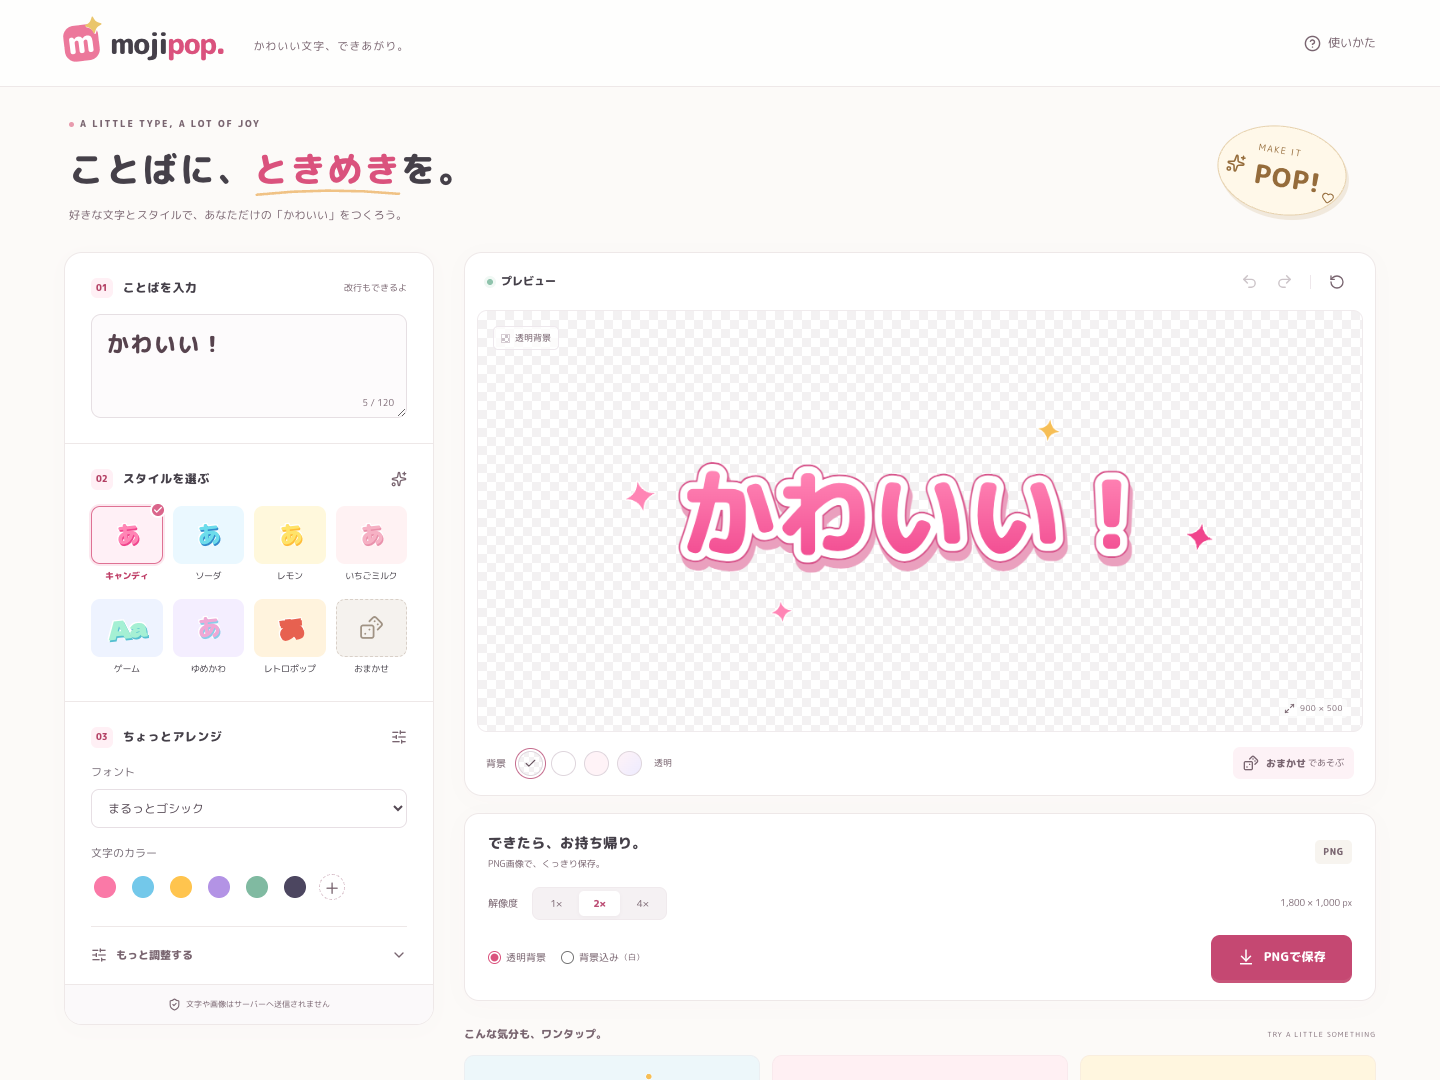
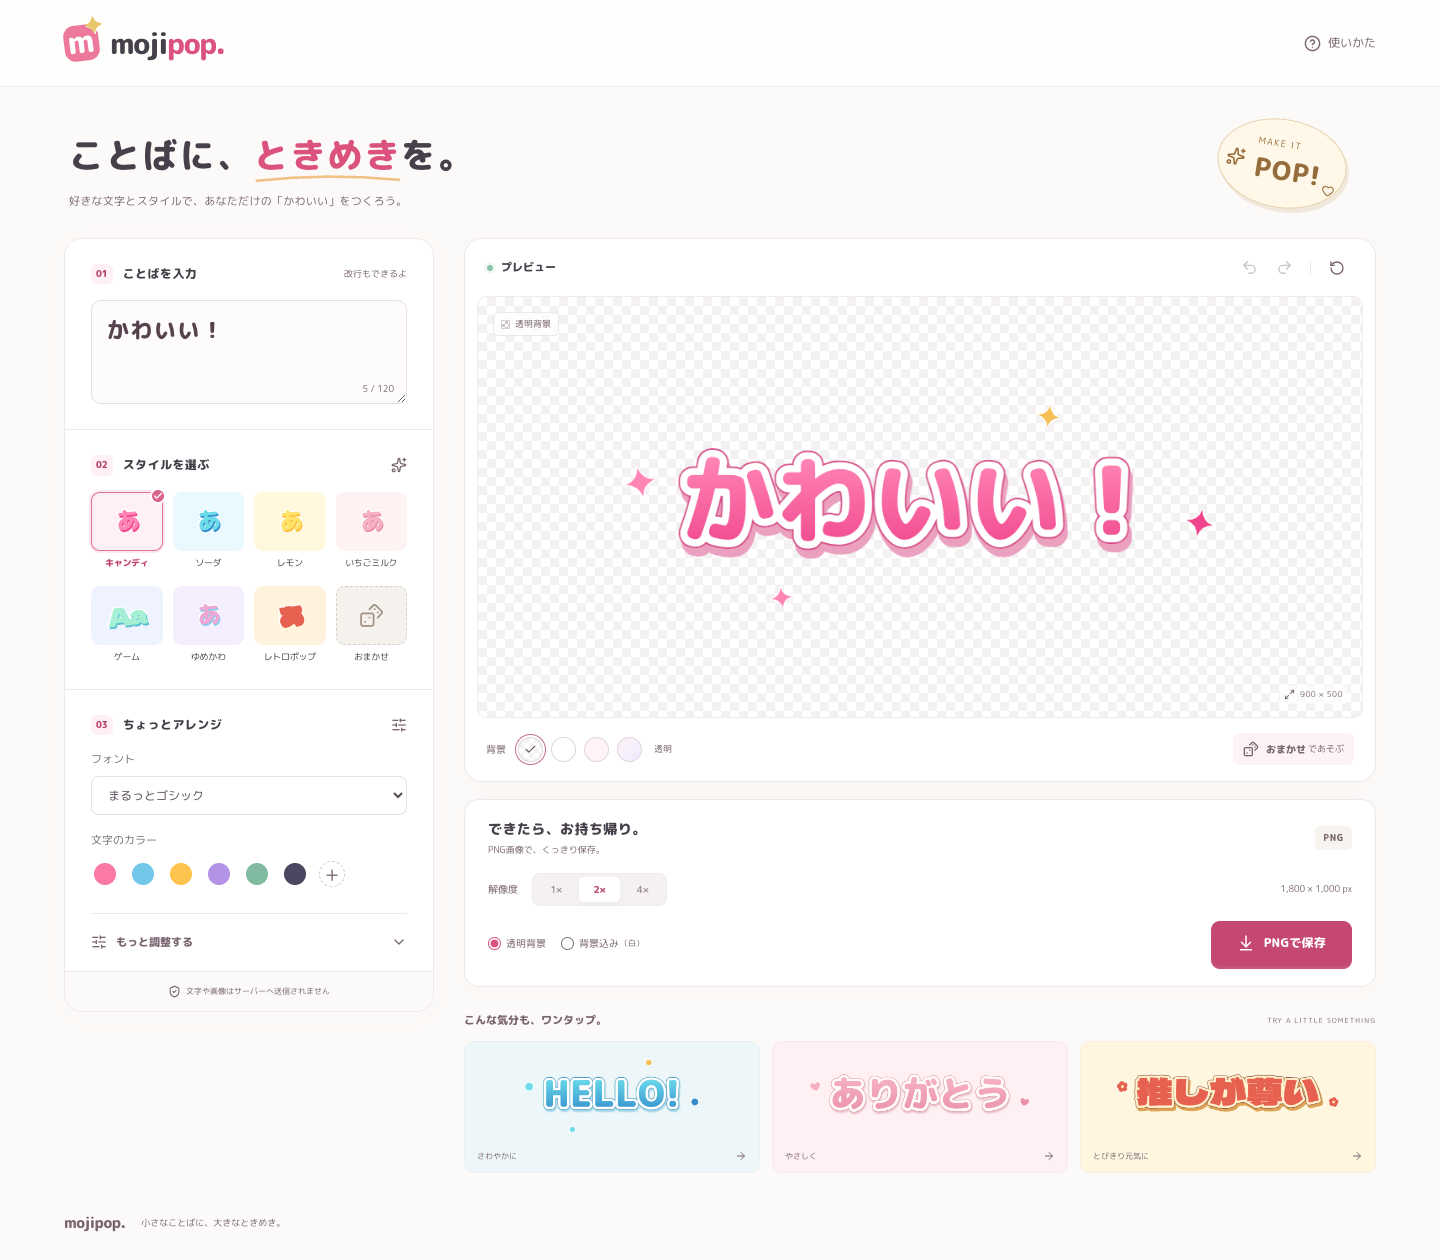
Add README previews and simplify interface copy

diff --git a/src/App.tsx b/src/App.tsx
@@ -328,7 +328,6 @@ export default function App() {
               <span className="brand-dot">.</span>
             </span>
           </a>
-          <span className="header-caption">かわいい文字、できあがり。</span>
           <button
             className="help-button"
             onClick={() => helpRef.current?.showModal()}
@@ -342,9 +341,6 @@ export default function App() {
       <main className="page-shell">
         <section className="intro" aria-labelledby="page-title">
           <div>
-            <span className="eyebrow">
-              <span /> A LITTLE TYPE, A LOT OF JOY
-            </span>
             <h1 id="page-title">
               ことばに、
               <span className="headline-pop">
@@ -1050,9 +1046,6 @@ export default function App() {
         <footer className="page-footer">
           <span className="footer-wordmark">mojipop.</span>
           <span>小さなことばに、大きなときめき。</span>
-          <span className="footer-made">
-            Made for your imagination <Heart size={11} />
-          </span>
         </footer>
       </main>
       <nav className="mobile-actions" aria-label="クイック操作">

diff --git a/README.md b/README.md
@@ -3,6 +3,17 @@
 好きなことばを、ポップでかわいい文字画像にするブラウザアプリ。
 React / TypeScript / Vite と Canvas 2D で作成しています。バックエンドやAPIキーは不要です。
 
+## プレビュー
+
+![mojipopのPC画面。左側で文字やスタイルを選び、右側で仕上がりを確認してPNGを保存できます。](docs/desktop.png)
+
+<details>
+<summary>スマートフォンでの表示</summary>
+
+<img src="docs/mobile.png" alt="mojipopのスマートフォン画面。プレビューの下に設定を表示し、画面下部から画像を保存できます。" width="390" />
+
+</details>
+
 ## 起動
 
 ```sh
